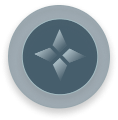
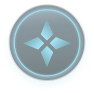
操纵杆增加死区设置

diff --git a/lib/src/animation_use/joystick.dart b/lib/src/animation_use/joystick.dart
@@ -12,6 +12,7 @@ class JoyStick extends StatefulWidget {
     required this.bgR,
     required this.bgr,
     this.thresholdArc = 0,
+    this.deadZoneArc = 0,
     required this.onMove,
   }) : super(key: key);
 
@@ -21,6 +22,7 @@ class JoyStick extends StatefulWidget {
   final double bgR; // 底圆半径
   final double bgr; // 小圆半径
   final double thresholdArc;
+  final double deadZoneArc;
   final void Function(double arc, double dx, double dy, double r) onMove;
 
   @override
@@ -49,6 +51,7 @@ class _JoyStickState extends State<JoyStick> {
             bigCircleImage: widget.bigCircleImage,
             littleCircleImage: widget.littleCircleImage,
             thresholdArc: widget.thresholdArc,
+            deadZoneArc: widget.deadZoneArc,
             onMove: widget.onMove,
             listenable: Listenable.merge([_offset, _offsetCenter])),
       ),
@@ -94,6 +97,7 @@ class JoyStickPainter extends CustomPainter {
     this.bigCircleImage,
     this.littleCircleImage,
     required this.thresholdArc,
+    required this.deadZoneArc,
     required this.onMove,
     required Listenable listenable,
   }) : super(repaint: listenable) {
@@ -110,12 +114,12 @@ class JoyStickPainter extends CustomPainter {
   /// 弧度阈值-禁止区域的角度的一半，弧度表示
   final double thresholdArc;
 
+  /// 死区阈值 - 处于禁止区内，越过死区阈值即调整小球位置，弧度表示
+  final double deadZoneArc;
+
   final void Function(double arc, double dx, double dy, double r) onMove;
 
   late Paint _paint;
-
-  /// 进入禁止区前的弧度
-  double _arcBeforeEnterForbiddenZone = 0;
 
   /// 有效弧度， 因为底圆可能有禁止滑动区，所以弧度范围非完整圆
   double _effectiveArc = 0;
@@ -159,9 +163,9 @@ class JoyStickPainter extends CustomPainter {
 
     /// 限定小球在底圆指定范围内运动
     if (ata.abs() < thresholdArc.abs()) {
-      _effectiveArc = thresholdArc;
-
-      if (_arcBeforeEnterForbiddenZone < 0) {
+      if (ata > deadZoneArc) {
+        _effectiveArc = thresholdArc;
+      } else if (ata < -deadZoneArc) {
         _effectiveArc = -thresholdArc;
       }
 
@@ -169,9 +173,9 @@ class JoyStickPainter extends CustomPainter {
       var dy = r * sin(_effectiveArc) + offsetCenterTranslate.dy; // 求边长
       offsetTranslate = Offset(dx, dy);
     } else if (ata.abs() > (pi - thresholdArc).abs()) {
-      _effectiveArc = pi - thresholdArc;
-
-      if (_arcBeforeEnterForbiddenZone < 0) {
+      if (ata > 0 && ata < pi - deadZoneArc) {
+        _effectiveArc = pi - thresholdArc;
+      } else if (ata < 0 && ata > -(pi - deadZoneArc)) {
         _effectiveArc = -(pi - thresholdArc);
       }
 
@@ -179,7 +183,6 @@ class JoyStickPainter extends CustomPainter {
       var dy = r * sin(_effectiveArc) + offsetCenterTranslate.dy; // 求边长
       offsetTranslate = Offset(dx, dy);
     } else {
-      _arcBeforeEnterForbiddenZone = ata;
       _effectiveArc = ata;
     }
 

diff --git a/lib/src/animation_use/joystick_use_page.dart b/lib/src/animation_use/joystick_use_page.dart
@@ -58,10 +58,11 @@ class _JoystickUsePageState extends State<JoystickUsePage> {
                   bigCircleImage: bigCircleImage,
                   littleCircleImage: littleCircleImage,
                   bgR: 80,
-                  bgr: 28,
+                  bgr: 23,
                   thresholdArc: 50 * pi / 180,
+                  deadZoneArc: 10 * pi / 180,
                   onMove: (arc, x, y, r) {
-                    print("arc=$arc, x=$x, y=$y, r=$r");
+                    // print("arc=$arc, x=$x, y=$y, r=$r");
                   },
                 )
               : Container(),
